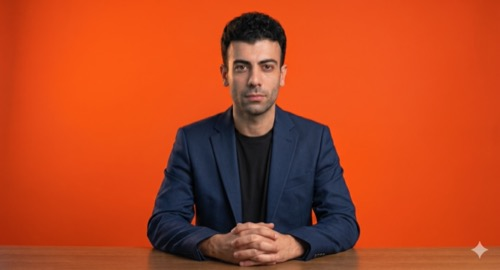
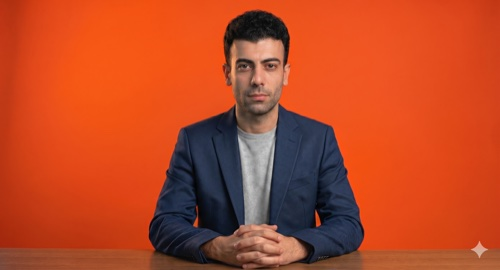
fix: update Tutku photo, fix team card aspect ratio to match landscape photos

Changed region(s): [[0.27, 0.0296, 0.81, 1.0]]

diff --git a/src/app/[locale]/about/page.tsx b/src/app/[locale]/about/page.tsx
@@ -85,11 +85,11 @@ export default async function AboutPage({ params }: Props) {
             ]).map((member, i) => (
               <div key={i} className={`od-card !p-0 overflow-hidden ${!member.img ? '!border-dashed !border-ink/10' : ''}`}>
                 {member.img ? (
-                  <div className="aspect-[3/4] relative">
-                    <Image src={member.img} alt={member.name} fill className="object-cover object-top" />
+                  <div className="aspect-[4/3] relative">
+                    <Image src={member.img} alt={member.name} fill className="object-cover object-[center_25%]" />
                   </div>
                 ) : (
-                  <div className="aspect-[3/4] flex items-center justify-center">
+                  <div className="aspect-[4/3] flex items-center justify-center">
                     <span className="text-[2rem] font-black text-ink/10">?</span>
                   </div>
                 )}
